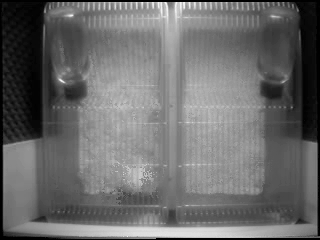
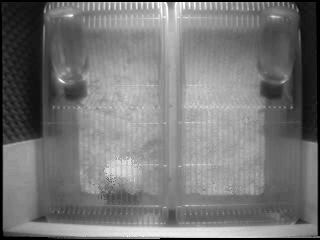
* try kde, modified parameters

diff --git a/wxcrafter.cpp b/wxcrafter.cpp
@@ -307,7 +307,7 @@ MainFrameBaseClass::MainFrameBaseClass(wxWindow* parent, wxWindowID id, const wx
     
     flexGridSizer221->Add(m_staticText227, 0, wxALL, WXC_FROM_DIP(5));
     
-    m_textCtrlFgProb = new wxTextCtrl(m_panelKDE, wxID_ANY, wxT("0.000001"), wxDefaultPosition, wxDLG_UNIT(m_panelKDE, wxSize(-1,-1)), 0);
+    m_textCtrlFgProb = new wxTextCtrl(m_panelKDE, wxID_ANY, wxT("0.0000001"), wxDefaultPosition, wxDLG_UNIT(m_panelKDE, wxSize(-1,-1)), 0);
     #if wxVERSION_NUMBER >= 3000
     m_textCtrlFgProb->SetHint(wxT(""));
     #endif

diff --git a/MainFrame.cpp b/MainFrame.cpp
@@ -665,7 +665,7 @@ void MainFrame::OnBackgroundKDE(wxCommandEvent& event)
 	int frameNumber = 0;
 	
 	int sampling = 20;
-	int nTrainingFrames = 300; //nTrainMin*60*m_fps/sampling;	
+	int nTrainingFrames = 100; //nTrainMin*60*m_fps/sampling;	
 	float thSmoothFD = 100;
 	
 	myMsgOutput("KDE training: %d frames, sampling %d, KernelBW %d, fgProb %f\n", nTrainingFrames, sampling, m_nKernelBW, m_fgProb);
